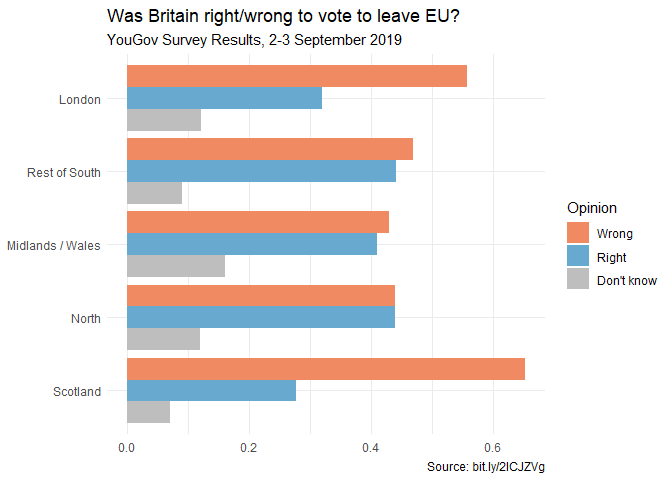
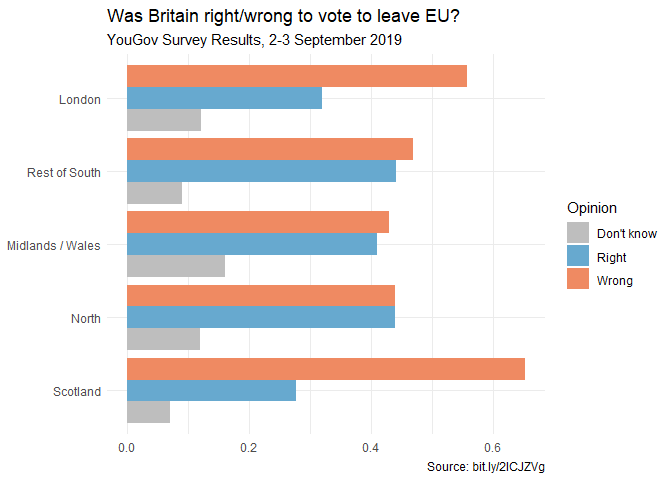
Done with this exersice

Changed region(s): [[0.8438, 0.4375, 1.0, 0.625]]

diff --git a/brexit.md b/brexit.md
@@ -145,7 +145,8 @@ brexit %>%
     "Wrong" = "#ef8a62",
     "Right" = "#67a9cf",
     "Don't know" = "gray"
-  ))
+  )) +
+  guides(fill = guide_legend(reverse = T))
 ```
 
 ![](brexit_files/figure-gfm/unnamed-chunk-5-1.png)<!-- -->
